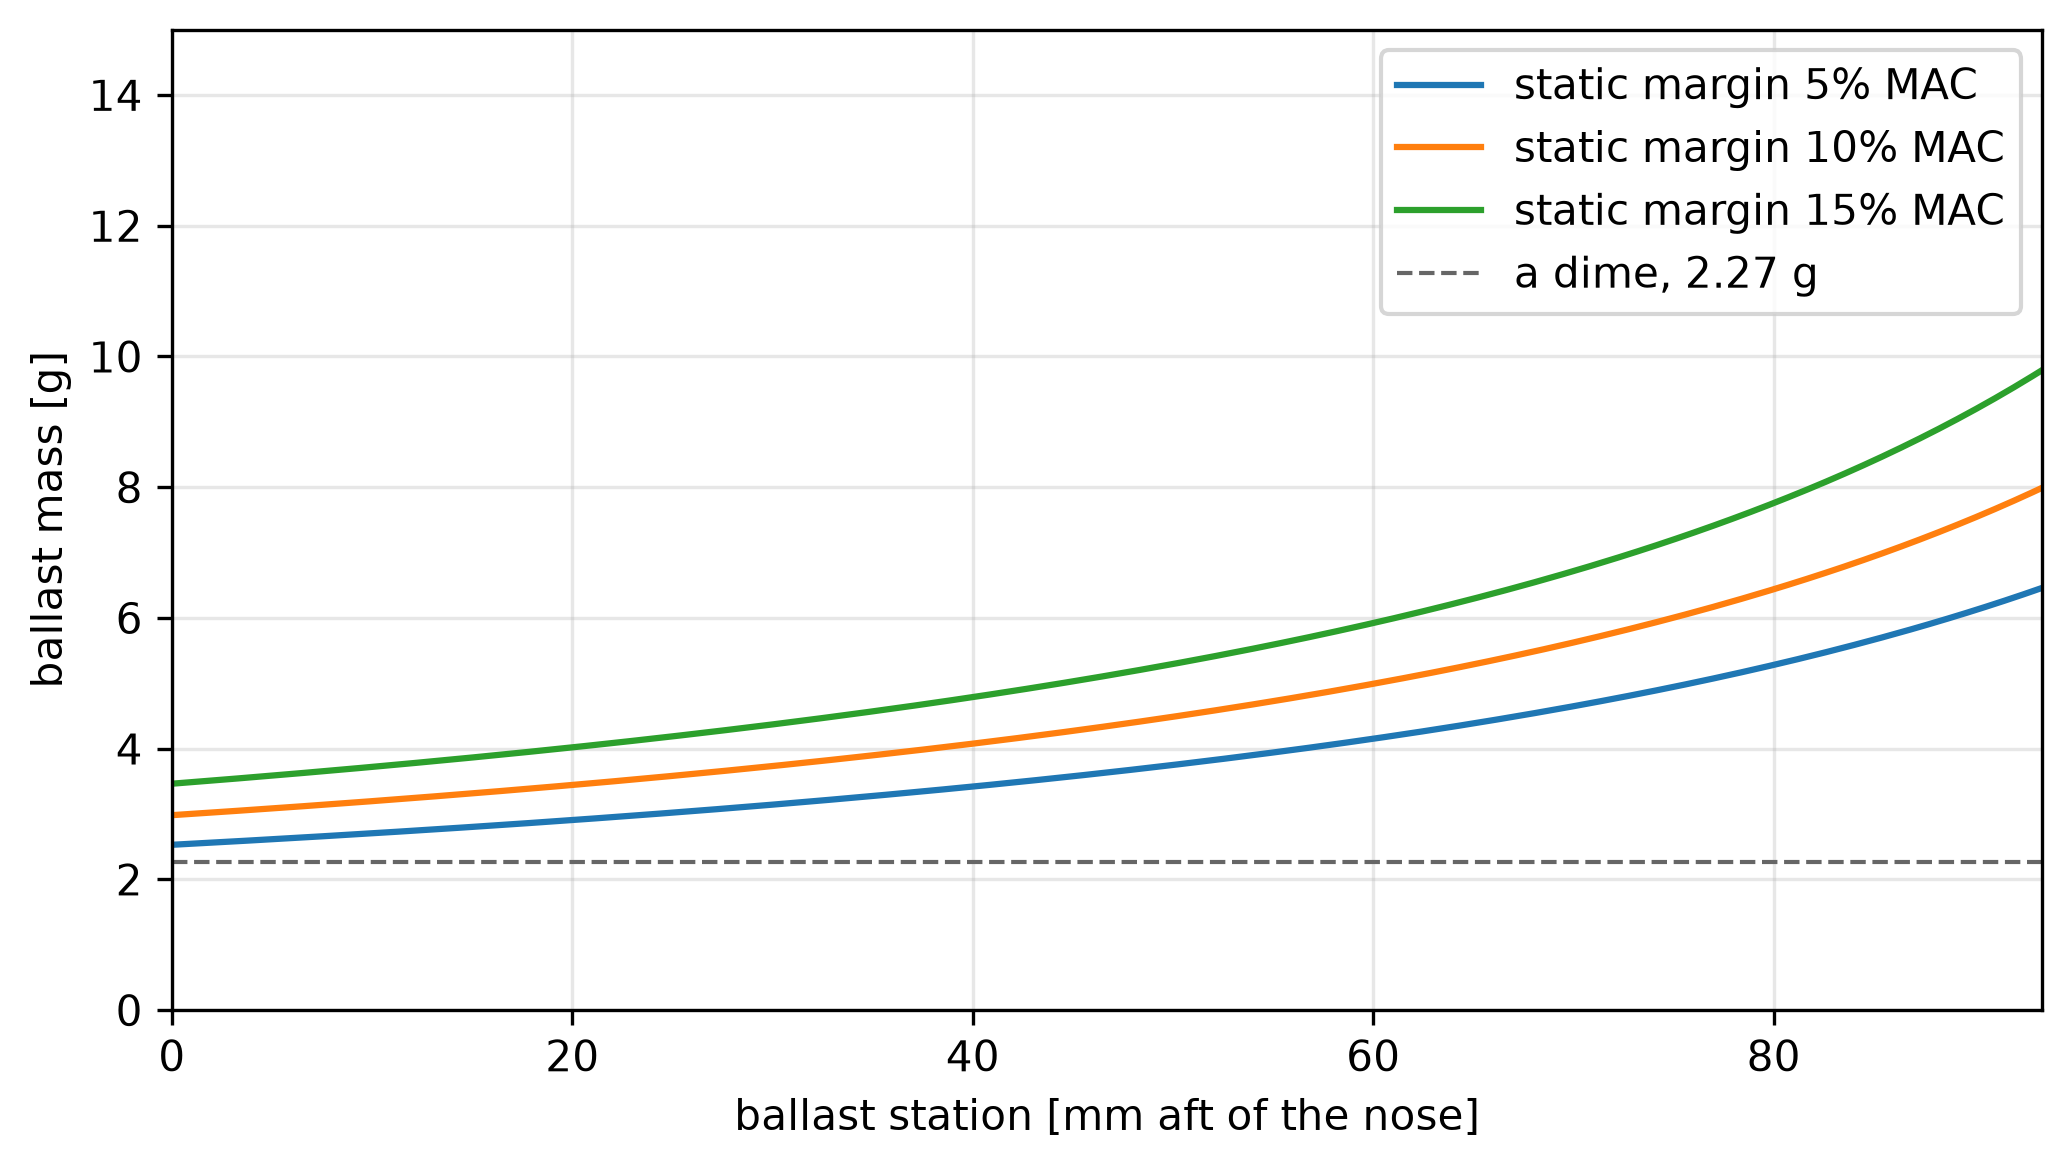
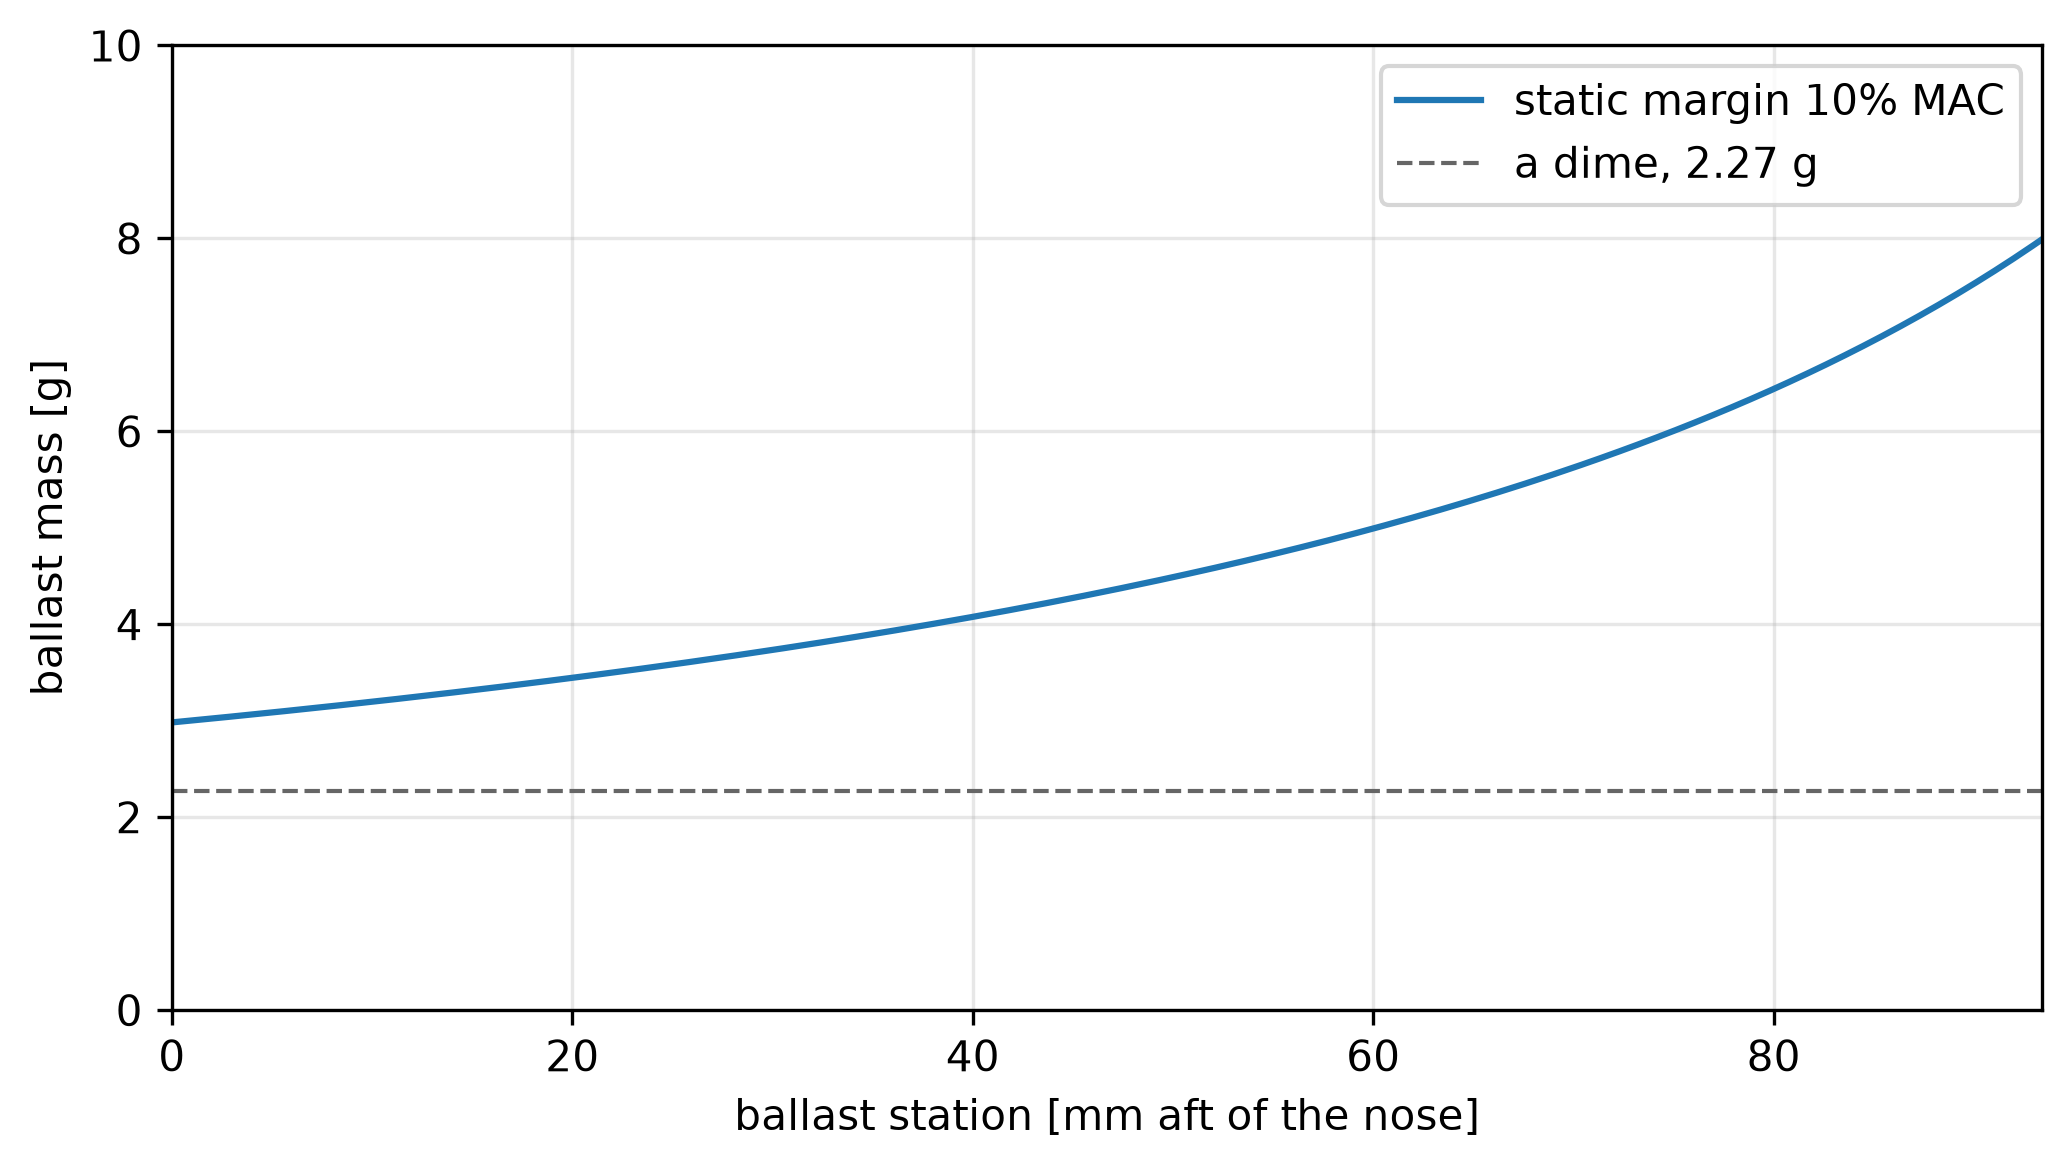
avoiding assumptions tested

diff --git a/aircraft-notebook/_lint.py b/aircraft-notebook/_lint.py
@@ -21,6 +21,12 @@ Three rules, each earned by a failure that actually happened in this notebook:
 3. THE ANSWER COMES BEFORE THE EVIDENCE. An entry is read to find out what was
    learned; the working is there to be checked afterwards.
 
+4. NO SWEEPING A DECISION THAT SHOULD HAVE BEEN ASKED. "Where does the ballast
+   go?" was once answered with three static margins because nobody asked which
+   one was wanted -- turning a missing input into extra analysis, which is worse
+   than either asking or assuming. A design decision gets asked for and recorded
+   in a `## Specified` callout, not swept.
+
 The leading underscore keeps Quarto from rendering this file.
 """
 import pathlib
@@ -28,10 +34,12 @@ import re
 import sys
 from collections import defaultdict
 
-# Chapters written to the current format. Entries and the chapter index. Chapter 1 predates it and is left
-# alone -- it is internally consistent, and rewriting it would invalidate a
-# freeze holding expensive solver runs.
-OPTED_IN = ["02-mceagle-300"]
+# Every chapter is checked unless it is named here. Opt-out, not opt-in: a
+# chapter added tomorrow is checked the moment it exists, and excluding one is a
+# deliberate act someone has to write down. An opt-in list quietly leaves new
+# work unchecked until somebody remembers, which is how a checker becomes
+# decoration.
+SKIP = ["01-aerobuildup-bfg"]   # predates the format; its freeze holds solver runs
 
 # Two decimals or more reads as a result. One decimal is usually a condition --
 # 6 m/s, 0.5 deg, 10% -- and flagging those is noise. Measured on this notebook:
@@ -45,6 +53,11 @@ BOILERPLATE = re.compile(
     r"\)|\]|\}|else:|try:|finally:)"
 )
 BLOCK = 3  # consecutive code lines that count as a repeated block
+
+# A short literal list of numbers bound to a name is how a hedge looks: three
+# static margins, five launch heights. A real sensitivity study builds its arms
+# from calls, and an analysis sweep uses linspace -- neither trips this.
+SWEPT_LITERAL = re.compile(r"^\s*(\w+)\s*=\s*\[\s*([-\d.eE, ]+)\]\s*$", re.M)
 
 
 def prose_of(text):
@@ -84,6 +97,17 @@ def check(chapters):
             problems.append(
                 (f, f"hand-typed number {n!r} in prose — use `{{python}} …`"))
 
+        # A swept design choice with no recorded decision.
+        if "## Specified" not in text:
+            code = "\n".join(re.findall(r"```\{python\}(.*?)```", text, re.S))
+            for name, body in SWEPT_LITERAL.findall(code):
+                n = len([v for v in body.split(",") if v.strip()])
+                if 3 <= n <= 5:
+                    problems.append(
+                        (f, f"sweeps {name!r} over {n} values with no recorded "
+                            f"decision — should the user have been asked, and the "
+                            f"answer put in a `## Specified` callout?"))
+
         if "**Answer.**" in text:
             last_cell = text.rfind("```{python}")
             if text.index("**Answer.**") > last_cell:
@@ -106,7 +130,10 @@ def check(chapters):
 
 
 if __name__ == "__main__":
-    chapters = sys.argv[1:] or OPTED_IN
+    root = pathlib.Path(__file__).parent
+    chapters = sys.argv[1:] or sorted(
+        d.name for d in (root / "chapters").iterdir()
+        if d.is_dir() and d.name not in SKIP)
     found = check(chapters)
     for where, msg in found:
         print(f"  {where.name[11:44] + ': ' if where else ''}{msg}")

diff --git a/.claude/skills/design-notebook/SKILL.md b/.claude/skills/design-notebook/SKILL.md
@@ -8,13 +8,58 @@ allowed-tools: Bash(uv run quarto *) Bash(uv run python *) mcp__library-explorer
 Now: !`date "+%Y-%m-%d %H:%M"`
 Notebook: !`find . -maxdepth 3 -name _quarto.yml -not -path "*/_site/*" 2>/dev/null`
 
+## Start here — route the request
+
+Every request, before anything else.
+
+**1. Design, or meta?**
+Design is the aircraft and any model of it, including "can I trust this model?".
+Meta is the notebook system itself — this skill, its templates and references,
+`_lint.py`, `_notebook.py`, the MCP config, rendering. *Meta work gets done and
+committed. It never becomes an entry.*
+
+**2. Design: where does it go?** See "Where the work goes" — same model becomes
+an entry, a different model or vehicle a chapter, a different aircraft a new
+notebook (ask first).
+
+**3. Does it need an input you do not have?** Classify each one:
+
+| kind | test | action |
+|---|---|---|
+| **Derivable** | the model or the plans already contain it | compute it — never ask, never assume |
+| **Specified** | a different answer changes *what we are building* | **ask** |
+| **Unknown** | a different answer changes *how accurately we modelled it* | assume, flag, say what it costs |
+
+Static margin is Specified — 5% and 15% are different aircraft. The `Cm`-against-
+`CL` fit band is Unknown-ish but really a modelling convention; asking would be
+noise.
+
+**Never sweep a Specified input instead of asking for it.** Carrying three
+values because nobody chose one turns a missing input into extra analysis, which
+is worse than either asking or assuming — it triples the output and still does
+not answer the question. `_lint.py` checks for this.
+
+**4. On the reply:**
+
+- **A value** → record it in the entry's `## Specified` callout and continue.
+- **"I don't know, what do you think?"** →
+  - *answerable in a sentence* → answer it, record it as Specified with yourself
+    as owner and the reason, continue.
+  - *needs computation to answer* → it is a question in its own right. **Return
+    to step 1 with it**, answer it, then come back and finish the original.
+
+With no user to ask — an agent running unattended — assume, and write
+`owner: assumed` in the box. That keeps "did a person decide this?" visible.
+
 ## The loop
 
 1. **Explore in the notebook's `_scratch/`** — gitignored, skipped by project
    renders, so nothing in the notebook is touched. See "Scratch probes" below.
 
 2. **When a question has been answered, stop and propose.** Give the entry
-   title (the user's question, verbatim) and its figures — nothing else. If the
+   title (the user's question, verbatim) and its figures — nothing else. **Ask
+   the Specified questions from triage step 3 in this same message**: you are
+   stopping anyway, so resolving the inputs costs no extra round trip. If the
    proposal covers more than one question, split it into one entry each. Say
    what the entry will cost to render if any cell runs a solver or a sweep;
    freeze pays it once, and it survives edits to `_model.py`. Ask
@@ -76,6 +121,12 @@ broken most; when in doubt, write less.
   a mass nobody asked for.
 - **Captions describe, they don't conclude.** "Lift curve, drag curve and drag
   polar at 6 m/s", not "notice that everything is symmetric because…".
+- **Specified and Assumed are different things.** *Assumed* is a weakness —
+  nobody knows, the number may be wrong, sensitivity matters. *Specified* is a
+  brief — someone decided, so it is not wrong; changing it changes the target,
+  not the model's accuracy. `::: {.callout-tip}` / `## Specified` carries
+  **value · owner · date · one line of rationale**; `::: {.callout-note}` /
+  `## Assumed` carries the rest.
 - **Assumptions sit at the level they belong to.** What defines the chapter —
   the aero method, the section, what is left out — is stated once in
   `index.qmd`. What this entry alone had to assume goes in its `## Assumed`

diff --git a/.claude/skills/design-notebook/templates/new-notebook.md b/.claude/skills/design-notebook/templates/new-notebook.md
@@ -230,6 +230,24 @@ def api(filename="_analysis.py"):
 
 ---
 
+## `notebook/_lint.py`
+
+Format checks, run before recording any entry. **Copy it from an existing
+notebook** — `aircraft-notebook/_lint.py` is the reference copy — rather than
+retyping it. It checks four things, each earned by a failure that actually
+happened: no hand-typed numbers in prose, no code repeated across entries, the
+`**Answer.**` before the evidence, and no design decision swept over several
+values instead of being asked about.
+
+Chapters are discovered from `chapters/*/` and all are checked; `SKIP` names the
+ones deliberately excluded. Opt-out, not opt-in — a chapter added tomorrow is
+checked the moment it exists.
+
+`SKILL.md` instructs every session to run this, so a notebook without it makes
+that instruction a lie.
+
+---
+
 ## `notebook/chapters/NN-name/_analysis.py`
 
 The chapter's shared machinery — the calculations more than one entry performs.

diff --git a/.claude/skills/design-notebook/references/quarto.md b/.claude/skills/design-notebook/references/quarto.md
@@ -87,8 +87,11 @@ it can be cross-referenced, scanned by row, and read on a phone.
 
 ## Callouts
 
-`::: {.callout-note}` … `:::` with a `## Heading` line inside. Use for the
-assumptions block, so what was assumed is visually separable from what was run.
+`::: {.callout-note}` … `:::` with a `## Heading` line inside. Two are in use,
+and the colours carry the meaning: **`callout-note` (blue) / `## Assumed`** for
+a value nobody could supply, and **`callout-tip` (green) / `## Specified`** for
+a design decision the user made. Blue reads as provisional, green as settled,
+which is the distinction — an assumption may be wrong, a decision cannot be.
 Add `collapse="true"` to fold it — that is how the chapter index ships a full
 source listing without burying the page.
 
